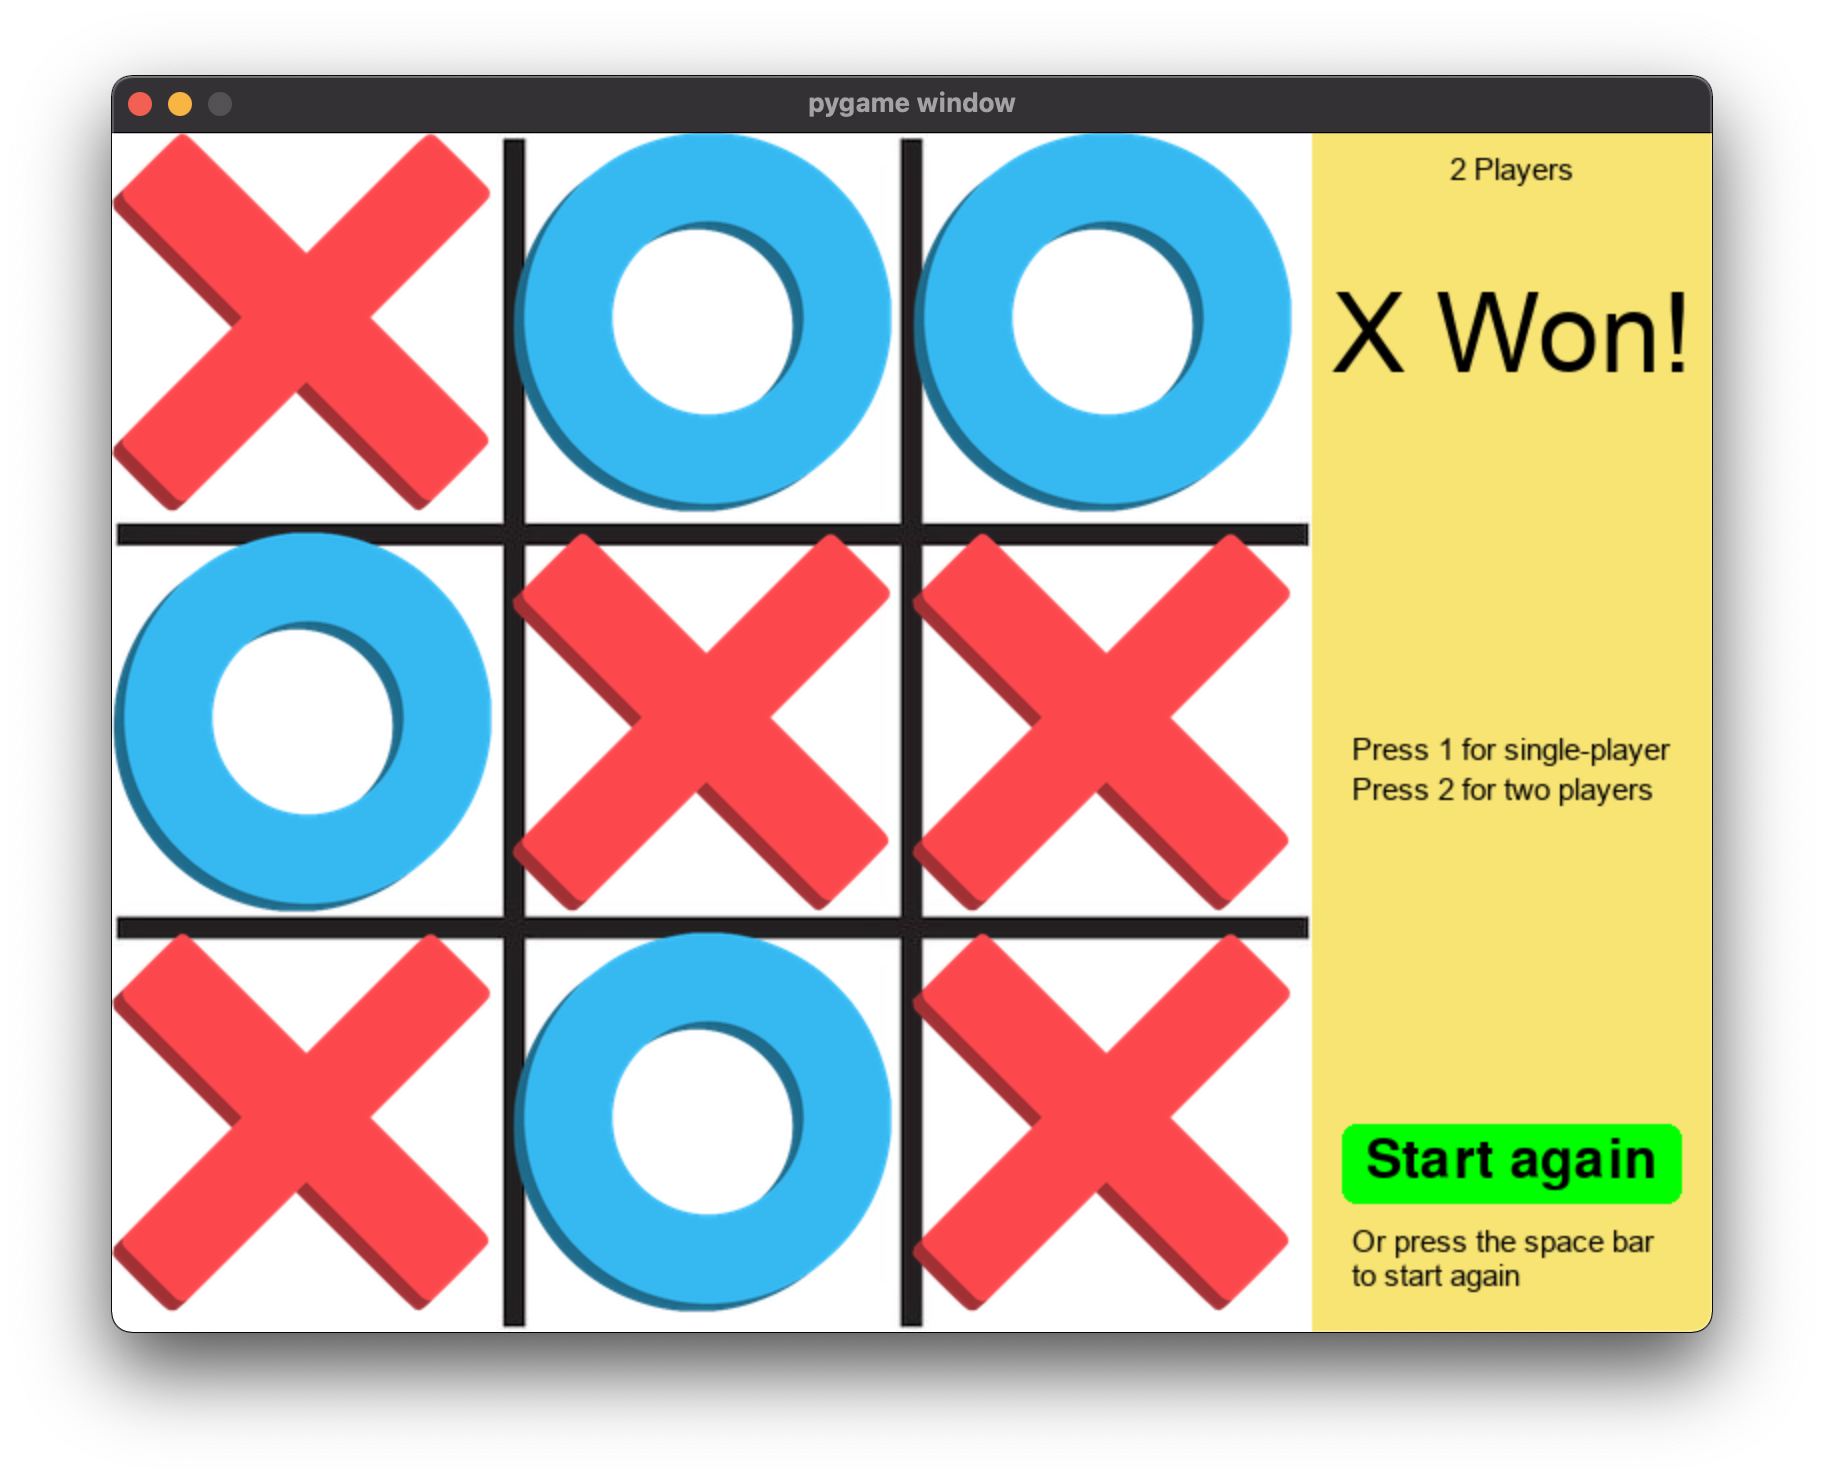
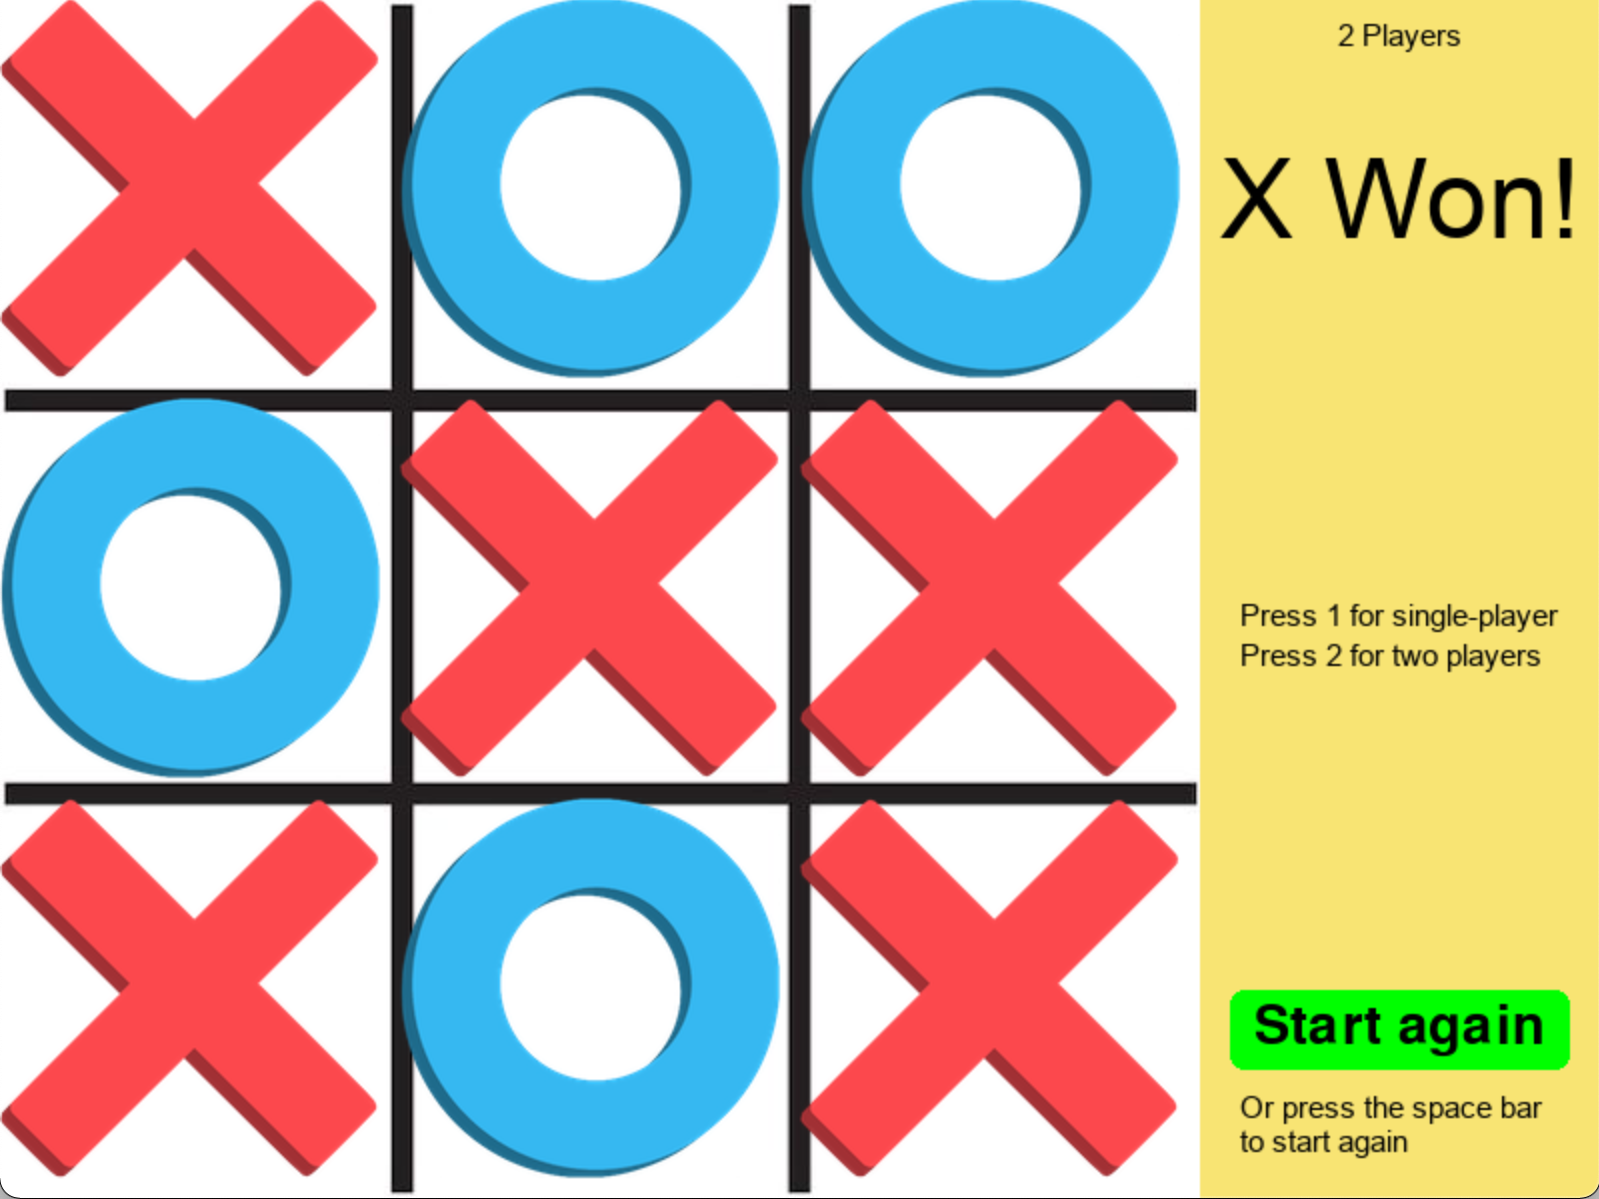
change pygame tictactoe photo and link on projects

diff --git a/client/src/components/portfolio.jsx b/client/src/components/portfolio.jsx
@@ -27,7 +27,7 @@ export const Portfolio = () => {
         img={PyTictactoe}
         desc="1 and 2-player tic-tac-toe using Pygame"
         tech="Python・Pygame・AI"
-        link="https://surveys.onrcx.net/react/"
+        link="https://github.com/mcherie/TicTacToePygame"
       />
       <Project
         title="Survey: Benchmark your Brand"
